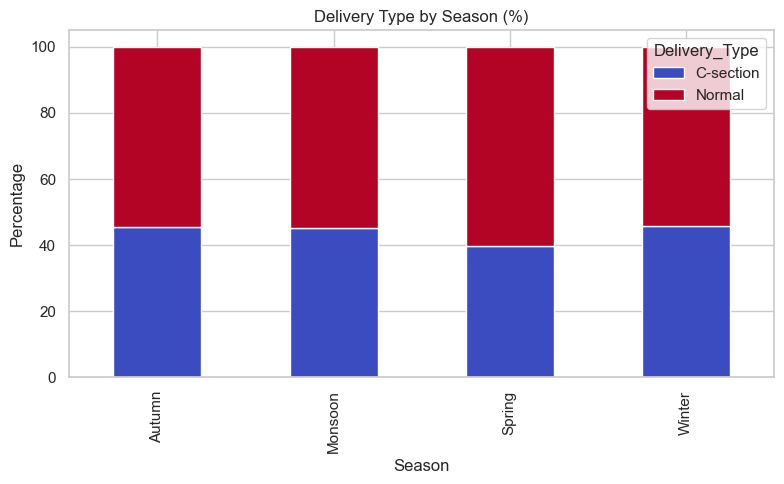
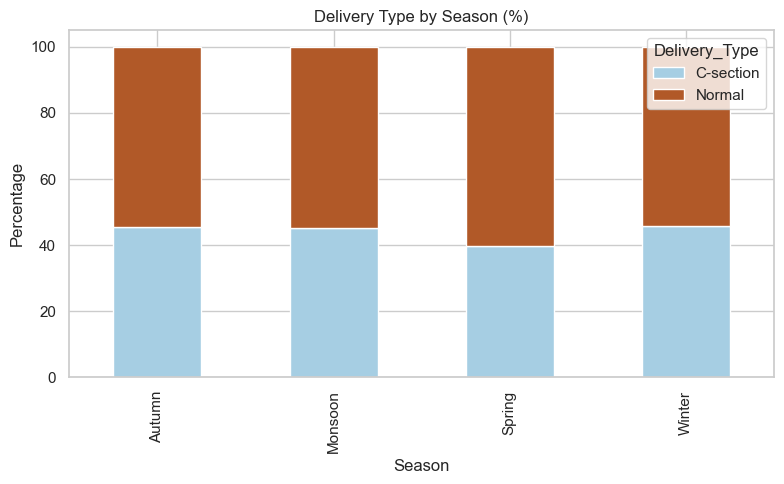
projects

diff --git a/project/trial.py b/project/trial.py
@@ -1,0 +1,333 @@
+import pandas as pd
+import matplotlib.pyplot as plt
+import seaborn as sns
+import os
+
+# Get the directory where the current Python script is located
+SCRIPT_DIR = os.path.dirname(os.path.abspath(__file__))
+
+# Define the directory to save plots relative to the script's location
+PLOTS_DIR = os.path.join(SCRIPT_DIR, 'plots')
+
+# Create the plots directory if it doesn't exist
+if not os.path.exists(PLOTS_DIR):
+    os.makedirs(PLOTS_DIR)
+    print(f"Created directory: {PLOTS_DIR}")
+
+# Set global style for plots
+sns.set(style="whitegrid")
+
+
+def load_and_preprocess_data(file_path):
+    """
+    Loads the dataset from the given file path and performs necessary preprocessing steps.
+
+    Args:
+        file_path (str): The path to the CSV dataset.
+
+    Returns:
+        pandas.DataFrame: The preprocessed DataFrame.
+    """
+    try:
+        df = pd.read_csv(file_path)
+    except FileNotFoundError:
+        print(f"Error: The file '{file_path}' was not found. Please check the path.")
+        return None
+    except Exception as e:
+        print(f"An error occurred while loading the data: {e}")
+        return None
+
+    # Converting the date column to datetime format.
+    df['Date_of_Delivery'] = pd.to_datetime(df['Date_of_Delivery'])
+
+    # Extracting Year and Month
+    df['Year'] = df['Date_of_Delivery'].dt.year
+    df['Month'] = df['Date_of_Delivery'].dt.month
+
+    # Adding Season column based on Month
+    df['Season'] = df['Month'].map({
+        12: 'Winter', 1: 'Winter', 2: 'Winter',
+        3: 'Spring', 4: 'Spring', 5: 'Spring',
+        6: 'Monsoon', 7: 'Monsoon', 8: 'Monsoon',
+        9: 'Autumn', 10: 'Autumn', 11: 'Autumn'
+    })
+
+    # Creating Age Groups for analysis
+    df['Age_Group'] = pd.cut(df['Mother_Age'], bins=[0, 20, 30, 40, 100],
+                             labels=['<20', '20-30', '30-40', '40+'])
+
+    # Creating BMI categories
+    df['BMI_Category'] = pd.cut(df['Mother_BMI'], bins=[0, 18.5, 25, 30, 100],
+                                labels=['Underweight', 'Normal', 'Overweight', 'Obese'])
+
+    print("Preprocessed DataFrame head:")
+    print(df.head())
+    return df
+
+def save_plot(fig, plot_name):
+    """Helper function to save a plot and close the figure."""
+    file_path = os.path.join(PLOTS_DIR, f"{plot_name}.png")
+    fig.savefig(file_path, bbox_inches='tight')
+    plt.close(fig)
+    print(f"Saved plot: {file_path}")
+
+
+def plot_delivery_type_distribution(df):
+    """
+    Generates countplot and pie chart for Delivery Type Distribution and saves them.
+    """
+    print("\n--- 1. Delivery Type Distribution ---")
+    # Countplot
+    fig1, ax1 = plt.subplots(figsize=(6, 4))
+    sns.countplot(x='Delivery_Type', data=df, palette='Set2', ax=ax1)
+    ax1.set_title("Count of Delivery Types")
+    ax1.set_xlabel("Delivery Type")
+    ax1.set_ylabel("Count")
+    save_plot(fig1, "delivery_type_countplot")
+
+    # Pie-chart
+    delivery_counts = df['Delivery_Type'].value_counts()
+    fig2, ax2 = plt.subplots(figsize=(6, 6))
+    ax2.pie(delivery_counts, labels=delivery_counts.index, autopct='%1.1f%%', colors=['lightgreen', 'lightcoral'])
+    ax2.set_title("Delivery Type Distribution")
+    save_plot(fig2, "delivery_type_piechart")
+
+def plot_institutional_comparison(df):
+    """
+    Generates a countplot for Delivery Type by Hospital Type and saves it.
+    """
+    print("\n--- 2. Institutional Comparison ---")
+    fig, ax = plt.subplots(figsize=(8, 5))
+    sns.countplot(x='Hospital_Type', hue='Delivery_Type', data=df, palette='Set3', ax=ax)
+    ax.set_title("Delivery Type by Hospital Type")
+    ax.set_xticklabels(ax.get_xticklabels(), rotation=45, ha='right') # Rotate labels for readability
+    ax.set_xlabel("Hospital Type")
+    ax.set_ylabel("Count")
+    ax.legend(title="Delivery Type")
+    fig.tight_layout()
+    save_plot(fig, "institutional_comparison")
+
+def plot_regional_disparity(df):
+    """
+    Generates a countplot for Delivery Type by Region and saves it.
+    """
+    print("\n--- 3. Regional Disparity in Delivery Type ---")
+    fig, ax = plt.subplots(figsize=(8, 5))
+    sns.countplot(x='Region', hue='Delivery_Type', data=df, palette='pastel', ax=ax)
+    ax.set_title("Delivery Type by Region")
+    ax.set_xlabel("Region")
+    ax.set_ylabel("Count")
+    ax.legend(title='Delivery Type')
+    fig.tight_layout()
+    save_plot(fig, "regional_disparity")
+
+def plot_seasonal_effect(df):
+    """
+    Generates a countplot for Delivery Type by Season and saves it.
+    (Colors changed to 'Paired')
+    """
+    print("\n--- 4. Seasonal Effect on Delivery Type ---")
+    fig, ax = plt.subplots(figsize=(8, 5))
+    sns.countplot(x='Season', hue='Delivery_Type', data=df, palette='Paired', ax=ax) # Changed palette
+    ax.set_title("Delivery Type by Season")
+    ax.set_xlabel("Season")
+    ax.set_ylabel("Count")
+    fig.tight_layout()
+    save_plot(fig, "seasonal_effect")
+
+def plot_maternal_age_vs_delivery_type(df):
+    """
+    Generates a countplot for Delivery Type by Mother's Age Group and saves it.
+    """
+    print("\n--- 5. Maternal Age Group vs Delivery Type ---")
+    fig, ax = plt.subplots(figsize=(7, 4))
+    sns.countplot(x='Age_Group', hue='Delivery_Type', data=df, palette='Accent', ax=ax)
+    ax.set_title("Delivery Type by Mother's Age Group")
+    ax.set_xlabel("Age Group")
+    ax.set_ylabel("Count")
+    fig.tight_layout()
+    save_plot(fig, "maternal_age_vs_delivery_type")
+
+def plot_nicu_admission_rate(df):
+    """
+    Generates a stacked bar chart for NICU Admission by Delivery Type and saves it.
+    """
+    print("\n--- 6. NICU Admission Rate (Stacked Bar Chart) ---")
+    # Create a cross-tabulation table
+    nicu_table = pd.crosstab(df['Delivery_Type'], df['NICU_Admission'])
+
+    # Plot as stacked bar
+    fig, ax = plt.subplots(figsize=(8,4))
+    nicu_table.plot(kind='bar', stacked=True, colormap='Set2', ax=ax)
+    ax.set_title("NICU Admission by Delivery Type")
+    ax.set_xlabel("Delivery Type")
+    ax.set_ylabel("Count")
+    ax.legend(title="NICU Admission")
+    fig.tight_layout()
+    save_plot(fig, "nicu_admission_rate")
+
+def plot_medical_complication_impact(df):
+    """
+    Generates a countplot for Delivery Type by Medical Complication and saves it.
+    """
+    print("\n--- 7. Medical Complication Impact ---")
+    fig, ax = plt.subplots(figsize=(8, 5))
+    sns.countplot(x='Medical_Complication', hue='Delivery_Type', data=df, palette='Set1', ax=ax)
+    ax.set_title("Delivery Type by Medical Complication")
+    ax.set_xlabel("Medical Complication")
+    ax.set_ylabel("Count")
+    ax.set_xticklabels(ax.get_xticklabels(), rotation=45, ha='right') # Rotate labels for readability
+    fig.tight_layout()
+    save_plot(fig, "medical_complication_impact")
+
+def plot_bmi_vs_delivery_type(df):
+    """
+    Generates a countplot for Delivery Type by Mother's BMI Category and saves it.
+    """
+    print("\n--- 8. BMI vs Delivery Type ---")
+    fig, ax = plt.subplots(figsize=(8, 5))
+    sns.countplot(x='BMI_Category', hue='Delivery_Type', data=df, palette='Set3', ax=ax)
+    ax.set_title("Delivery Type by Mother's BMI Category")
+    ax.set_xlabel("BMI Category")
+    ax.set_ylabel("Count")
+    fig.tight_layout()
+    save_plot(fig, "bmi_vs_delivery_type")
+
+def plot_child_weight_vs_delivery_type(df):
+    """
+    Generates a box plot for Child Weight by Delivery Type and saves it.
+    """
+    print("\n--- 9. Child Weight vs Delivery Type (Box Plot) ---")
+    fig, ax = plt.subplots(figsize=(7, 4))
+    sns.boxplot(x='Delivery_Type', y='Child_Weight_kg', data=df, palette='Set2', ax=ax)
+    ax.set_title("Child Weight by Delivery Type")
+    ax.set_xlabel("Delivery Type")
+    ax.set_ylabel("Child Weight (kg)")
+    fig.tight_layout()
+    save_plot(fig, "child_weight_vs_delivery_type")
+
+def analyze_csection_by_region(df):
+    """
+    Analyzes and visualizes C-section deliveries by Region and saves the plot.
+    Returns the textual analysis.
+    """
+    print("\n--- Q1) Which part of the country has more C-section deliveries? ---")
+    # Count C-section deliveries by Region
+    region_c_sections = df[df['Delivery_Type'] == 'C-section']['Region'].value_counts()
+
+    # Plot
+    fig, ax = plt.subplots(figsize=(8, 5))
+    region_c_sections.plot(kind='bar', title='C-section Deliveries by Region', xlabel='Region', ylabel='Count', color='salmon', ax=ax)
+    fig.tight_layout()
+    save_plot(fig, "csection_by_region")
+
+    return "C-section Deliveries by Region:\n" + region_c_sections.to_string()
+
+def analyze_csection_by_hospital(df):
+    """
+    Analyzes and visualizes C-section deliveries by Hospital Name and saves the plot.
+    Returns the textual analysis.
+    """
+    print("\n--- Q2) Which hospitals have more C-section deliveries? ---")
+    # Count C-section deliveries by Hospital Name
+    hospital_c_sections = df[df['Delivery_Type'] == 'C-section']['Hospital_Name'].value_counts()
+
+    # Display top 10 (since the dataset is quite big)
+    # Plot top 10
+    fig, ax = plt.subplots(figsize=(8, 6)) # Increased height for better readability of hospital names
+    hospital_c_sections.head(10).plot(kind='barh', title='Top Hospitals by C-section Deliveries', color='skyblue', ax=ax)
+    ax.set_xlabel('Number of C-sections')
+    ax.set_ylabel('Hospital Name')
+    fig.tight_layout()
+    save_plot(fig, "csection_by_hospital")
+
+    return "Top 10 Hospitals by C-section Deliveries:\n" + hospital_c_sections.head(10).to_string()
+
+def analyze_csection_relation_with_season(df):
+    """
+    Analyzes and visualizes the relation between C-section delivery and Season and saves the plot.
+    Returns the textual analysis.
+    (Colors changed to 'Paired')
+    """
+    print("\n--- Q3) Does C-section delivery have any relation with Season? ---")
+    # Cross-tab of Season vs Delivery Type
+    season_table = pd.crosstab(df['Season'], df['Delivery_Type'], normalize='index') * 100
+
+    # Plot it
+    fig, ax = plt.subplots(figsize=(8, 5))
+    season_table.plot(kind='bar', stacked=True, colormap='Paired', title='Delivery Type by Season (%)', ax=ax) # Changed colormap
+    ax.set_ylabel("Percentage")
+    fig.tight_layout()
+    save_plot(fig, "csection_by_season")
+
+    return "Percentage of Delivery Types by Season:\n" + season_table.round(1).to_string()
+
+def analyze_second_child_normal_after_csection(df):
+    """
+    Calculates the percentage of 2nd child births that were normal when the 1st was a C-section.
+    Also generates a pie chart for the counts of delivery types in this specific subset.
+    Returns the textual analysis.
+    """
+    print("\n--- Q4) What percentage of 2nd child births were normal when 1st was C-section? ---")
+
+    # Only second-child births where the first was a C-section
+    mask = (df['Child_Birth_Order'] == 2) & (df['Previous_Delivery_Type'] == 'C-section')
+    subset = df[mask]
+
+    # Total cases
+    total_second_after_csection = subset.shape[0]
+
+    # How many were normal this time
+    normal_now = subset[subset['Delivery_Type'] == 'Normal'].shape[0]
+
+    # Calculate percentage
+    percentage = (normal_now / total_second_after_csection) * 100 if total_second_after_csection > 0 else 0
+
+    # Pie chart for visual
+    delivery_counts = subset['Delivery_Type'].value_counts()
+
+    fig, ax = plt.subplots(figsize=(6, 6))
+    ax.pie(delivery_counts,
+           labels=delivery_counts.index,
+           autopct='%1.1f%%',
+           startangle=90,
+           colors=['lightgreen', 'lightcoral']) # Using the colors you provided
+    ax.set_title("2nd Child Delivery Type (After 1st C-section)")
+    save_plot(fig, "q4_delivery_type_counts") # Save the pie chart with the same name
+
+    return f"Percentage of 2nd child births that were normal after 1st C-section: {percentage:.2f}%"
+
+def main():
+    """
+    Main function to run the entire analysis workflow, save plots, and print textual results.
+    """
+    # IMPORTANT: Update this path to your actual dataset location
+    file_path = r"E:\Learning\samsung_python\project\dataset_project.csv"
+    df = load_and_preprocess_data(file_path)
+
+    if df is not None:
+        print("\n--- Generating Visualizations and Saving Plots ---")
+        plot_delivery_type_distribution(df)
+        plot_institutional_comparison(df)
+        plot_regional_disparity(df)
+        plot_seasonal_effect(df)
+        plot_maternal_age_vs_delivery_type(df)
+        plot_nicu_admission_rate(df)
+        plot_medical_complication_impact(df)
+        plot_bmi_vs_delivery_type(df)
+        plot_child_weight_vs_delivery_type(df)
+
+        print("\n--- Answering Specific Questions (Copy these outputs for the HTML dashboard) ---")
+        q1_output = analyze_csection_by_region(df)
+        q2_output = analyze_csection_by_hospital(df)
+        q3_output = analyze_csection_relation_with_season(df)
+        q4_output = analyze_second_child_normal_after_csection(df) # Call the updated function
+
+        print("\n--- TEXTUAL ANALYSIS RESULTS ---")
+        print("Q1 Output:\n", q1_output)
+        print("\nQ2 Output:\n", q2_output)
+        print("\nQ3 Output:\n", q3_output)
+        print("\nQ4 Output:\n", q4_output)
+
+if __name__ == "__main__":
+    main()
